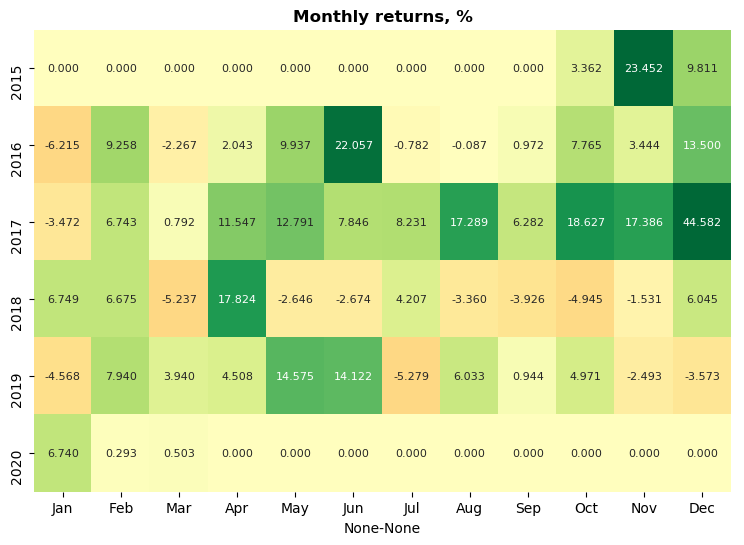
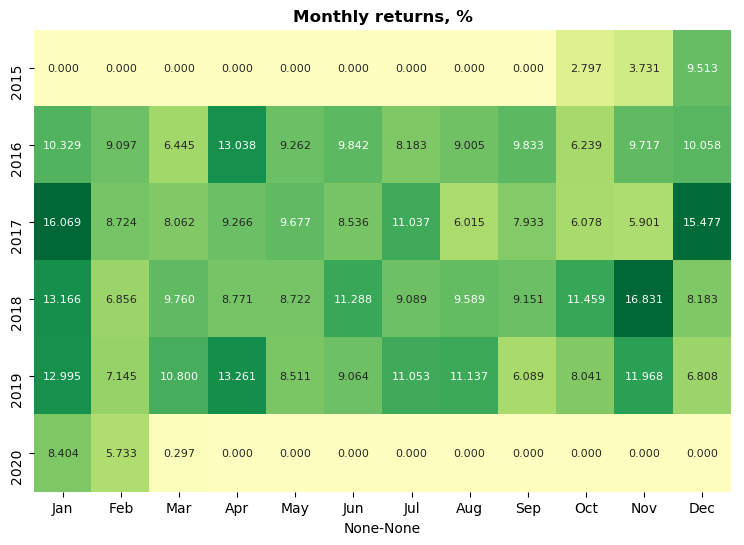
random data

diff --git a/run.py b/run.py
@@ -1,16 +1,31 @@
 from os.path import join, dirname, abspath
+import random
+import time
 
 from seaborn import heatmap
 import matplotlib.pyplot as plt
 from matplotlib import cm
-from pandas import read_json
+from pandas import read_json, DataFrame, to_datetime
 import seaborn as sns
 
 BASE_DATA = join(dirname(abspath(__file__)))
 fig_size = (9, 6)
 
+def rnd_timestamp(start, end):
+    return random.random() * (end - start) + start
+
 def cumulate_returns(x):
     return x.cumsum()[-1]
+
+def rndData():
+    idx = []
+    ret = []
+    for _ in range(0, 1000):
+        dt = rnd_timestamp(1445126400000, 1583280000000)
+        val = random.random()
+        idx.append(dt)
+        ret.append(val)
+    return DataFrame(ret, index=to_datetime(idx,  unit='ms'))
 
 def plot_monthly_heatmap(returns, name):
     try:
@@ -32,5 +47,7 @@ def plot_monthly_heatmap(returns, name):
         print('plot_monthly_heatmap', e)
 
 if __name__ == '__main__':
-    df = read_json(join(BASE_DATA, 'ret.json'), orient='index')
+    # df = read_json(join(BASE_DATA, 'ret.json'), orient='index')
+    df = rndData()
+    df.columns = ['returns']
     plot_monthly_heatmap(df['returns'], 'test')
